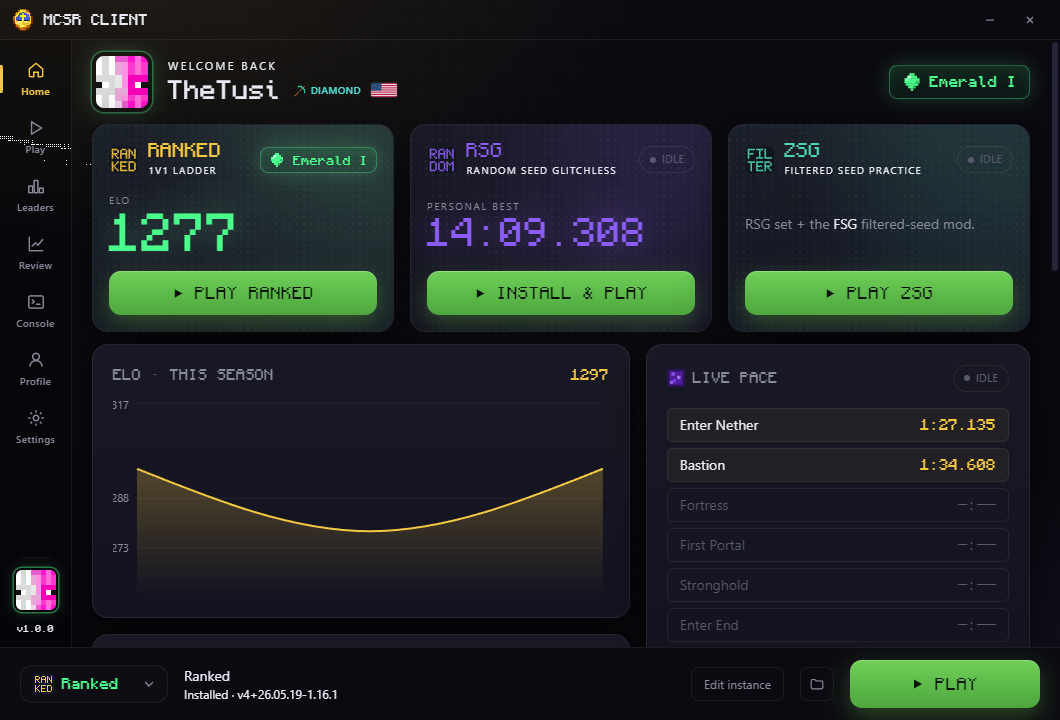
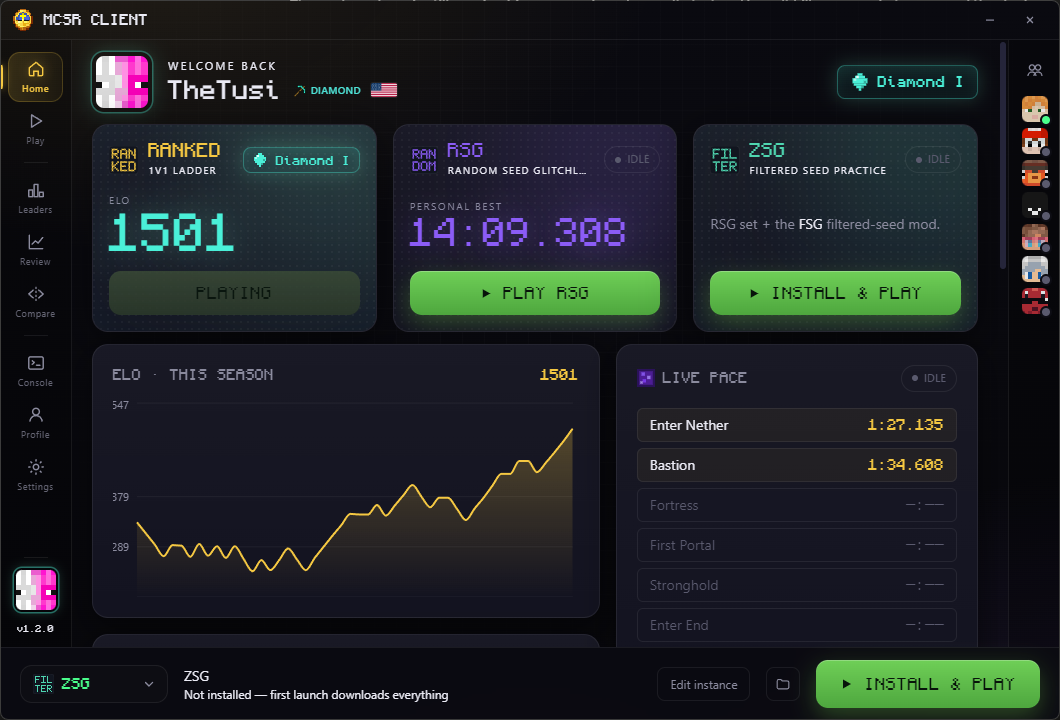
chore(release): v1.3.0
Refresh the home screenshot, document DMs and the win-chance metric, and bump
the version.

diff --git a/README.md b/README.md
@@ -5,7 +5,7 @@
 <br />
 <br />
 
-[![Version](https://img.shields.io/badge/version-v1.2.0-f5c842?style=for-the-badge&labelColor=15151c)](https://github.com/xSIRDON/MCSR-Client/releases/latest)
+[![Version](https://img.shields.io/badge/version-v1.3.0-f5c842?style=for-the-badge&labelColor=15151c)](https://github.com/xSIRDON/MCSR-Client/releases/latest)
 [![Platform](https://img.shields.io/badge/platform-Windows-3b82f6?style=for-the-badge&labelColor=15151c)](https://github.com/xSIRDON/MCSR-Client/releases/latest)
 [![License](https://img.shields.io/badge/license-MIT-22c55e?style=for-the-badge&labelColor=15151c)](LICENSE)
 
@@ -19,7 +19,7 @@ One app to sign in, install your instances, launch the game, and watch your rank
 
 ### [⬇  Download the latest installer](https://github.com/xSIRDON/MCSR-Client/releases/latest)
 
-<sub>Windows installer · auto-updates · v1.2.0</sub>
+<sub>Windows installer · auto-updates · v1.3.0</sub>
 
 </div>
 
@@ -55,7 +55,9 @@ SeedQueue wall resource packs come pre-installed for RSG and ZSG.
 Your stats, front and center:
 
 - ELO, tier (**Coal → Netherite**), peak rating, win rate, win streak, best time, and total matches.
-- An **ELO-over-time chart** and a feed of your recent matches.
+- An **ELO-over-time chart** and a feed of your recent matches — **expand any match** for a
+  **Splits ⇄ Timestamps** card: both players' milestones side by side with the head-to-head gap at
+  each split.
 - A **season switcher** on profiles, the review, and Compare — view any past season (with its closing Elo and rank) or **career totals**.
 - The **global leaderboard** plus full **player search** — with **type-ahead autocomplete** (sourced from the leaderboard, your friends, and everyone you've viewed), skins, and **donor-tier badges** (Stone / Iron / Diamond).
 
@@ -72,10 +74,11 @@ A dedicated review tab that turns your ranked history into insight:
 ### Compare any two players
 A head-to-head tab: search two names and get overlaid **split-performance radars**, per-split
 average-time gaps, and a stat-by-stat scorecard — Elo, win rate, best time, average win, streaks,
-and paceman RSG PBs. Every searched profile also gets the full radar treatment, plus a one-click
-**Compare with me**.
+and paceman RSG PBs. A **composite win-chance** meter blends the Elo gap with splits, win rate,
+finishing pace, and recent form — and shows which factors tip the matchup. Every searched profile
+also gets the full radar treatment, plus a one-click **Compare with me**.
 
-### Friends & watchlist
+### Friends, DMs & watchlist
 An Epic-style rail on the right edge of the app, on by default:
 
 - **Watchlist** — star any runner and see, live, when they're **in a ranked match** (with their
@@ -83,6 +86,9 @@ An Epic-style rail on the right edge of the app, on by default:
   and a one-click Twitch watch link.
 - **Mutual friends** — real friend requests with accept/decline and **"in the client"** presence,
   each tab showing a live count of who's in a game right now.
+- **Direct messages** — chat one-on-one with your mutual friends right in the rail. Messages are
+  stored and delivered even when they're offline, with unread badges and a pop-in toast when a
+  new one arrives. History survives updates.
 - **No password, no extra account** — sign-in proves your Minecraft account through Mojang's own
   session server, over HTTPS. Runs against the built-in network out of the box; the backend is a
   tiny self-hostable service (see [`server/`](server/)) if you'd rather run your own.